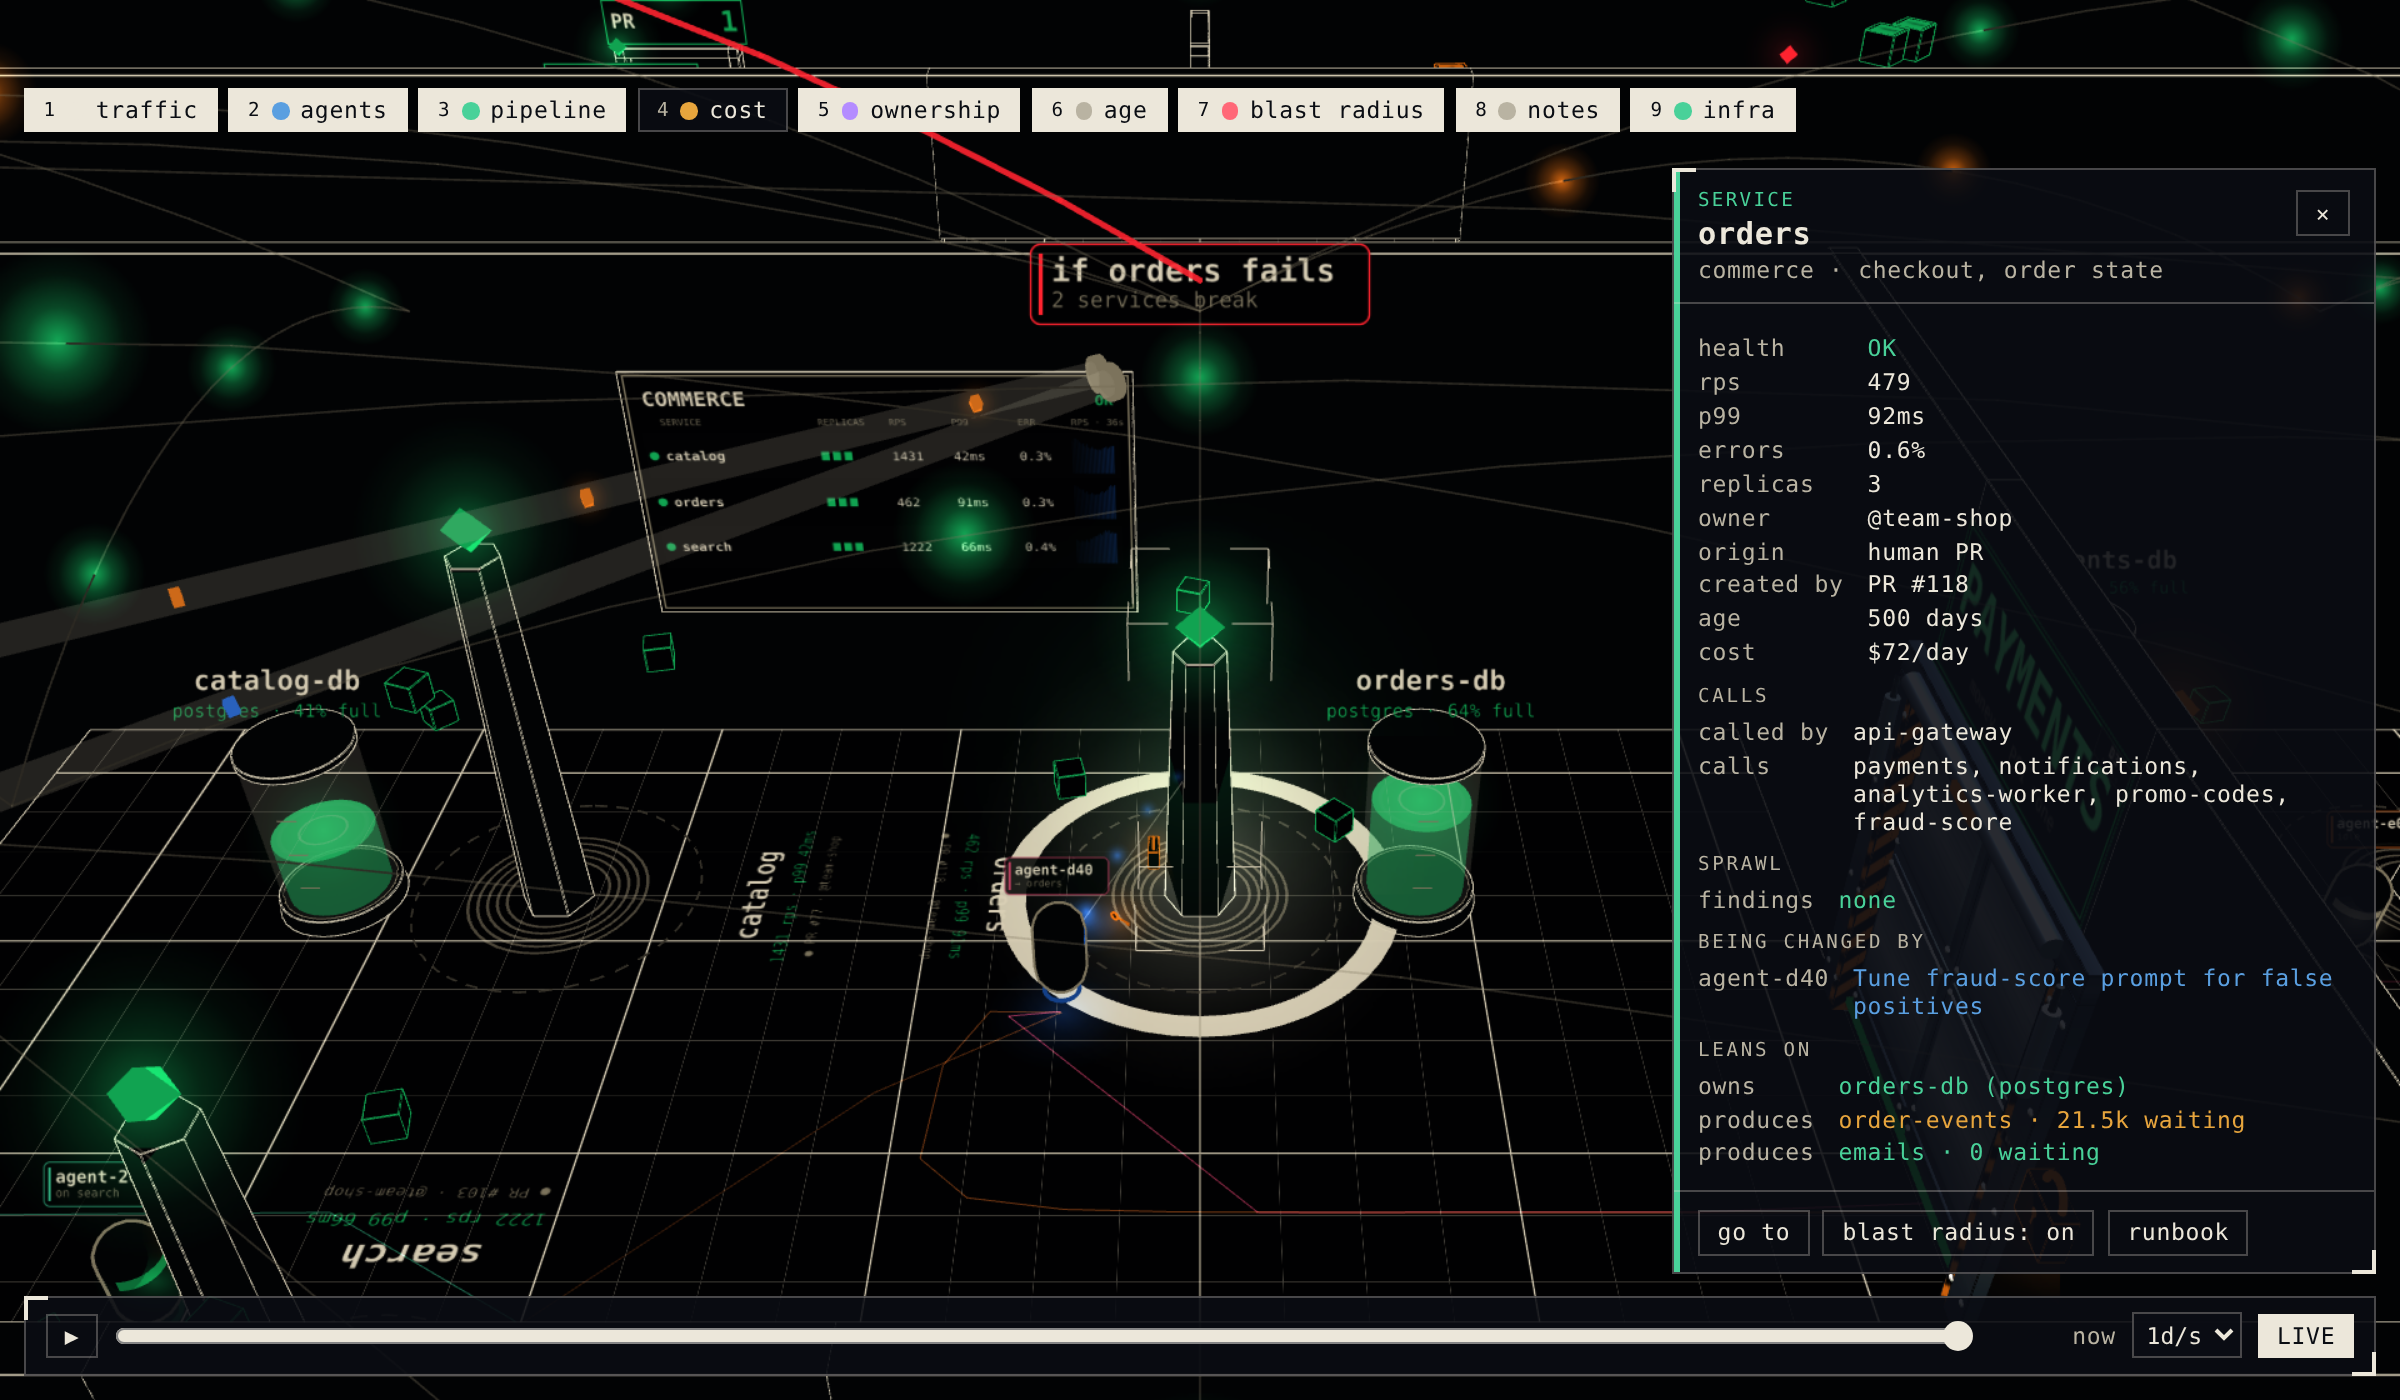
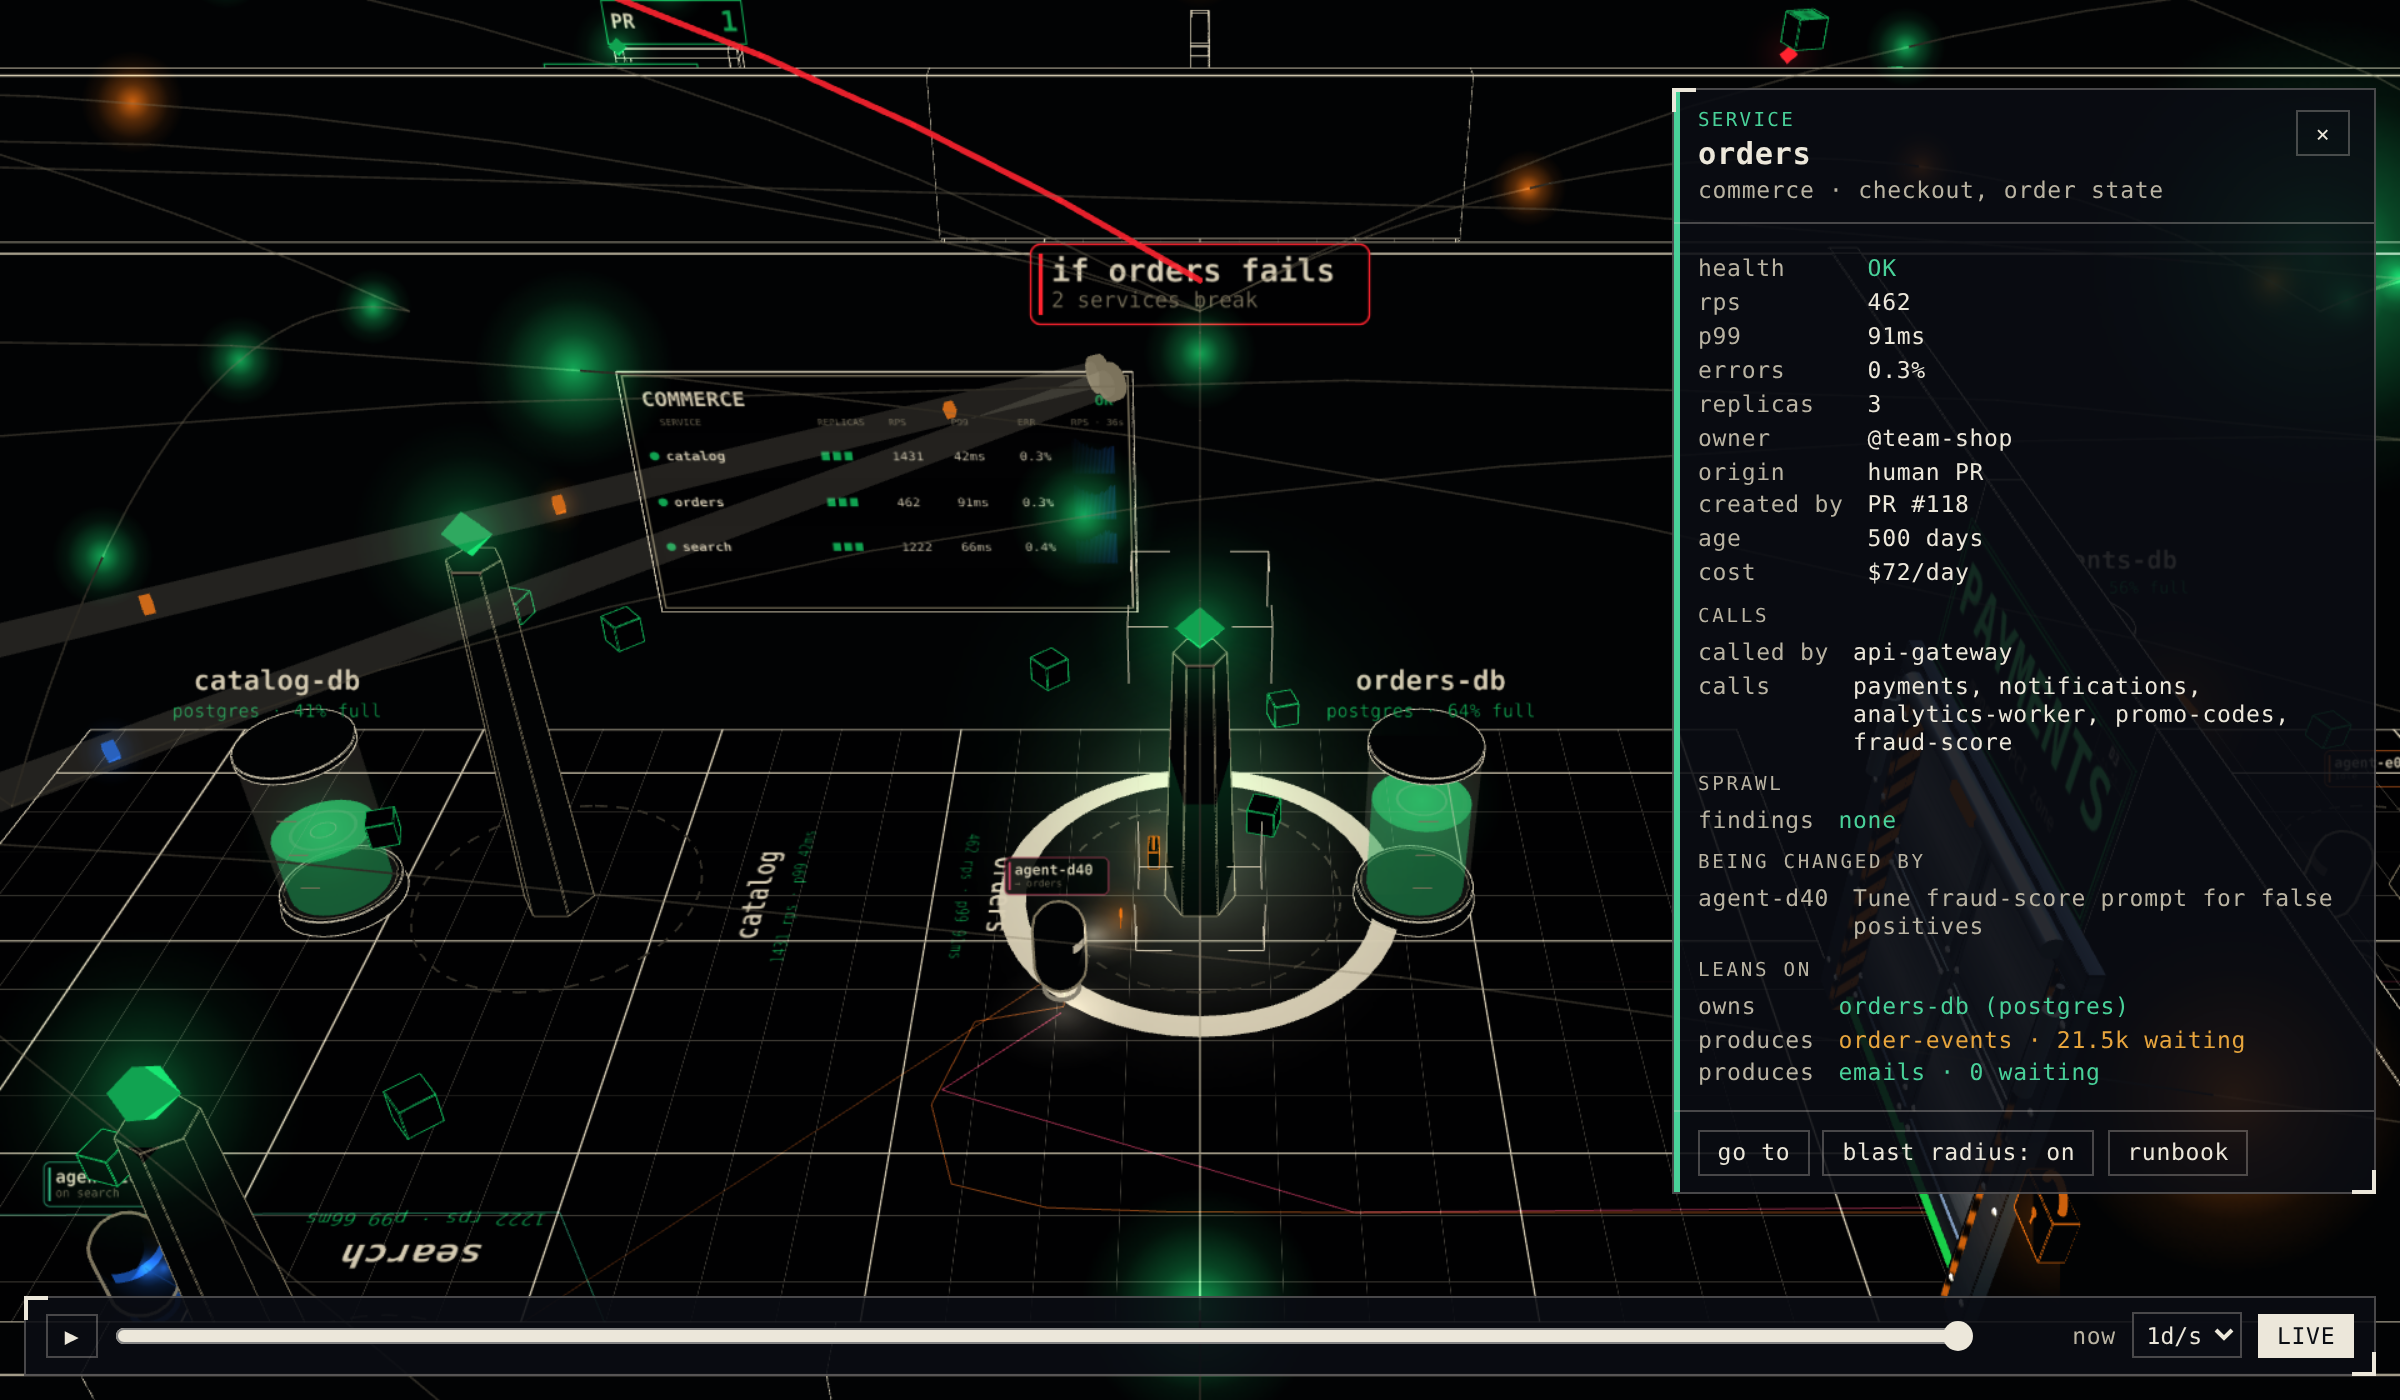
examples/company: a calmer first view, the layer chips folded into a menu, and a full-view shot
The row of layer chips across the top is now behind a "layers" button (keys
1-9 still work). The first view starts with traffic, agents, the work line,
infra and blast radius; cost, ownership, age and notes are a key away, and
?layers=all opens with everything on. The README shows both views.

Claude-Session: https://claude.ai/code/session_019EPYUWz9gcB9uawZGoN76F

diff --git a/examples/company/src/factoryLayers.ts b/examples/company/src/factoryLayers.ts
@@ -4,18 +4,31 @@
 // digit keys': nine layers, one per key.
 import { CRITICAL, INFO, OK, PAPER, PAPER_DIM, WARN, initialLayers, type LayerDef, type LayerState } from "site-world";
 
-export const LAYERS: readonly LayerDef[] = [
+// The first view is calm: traffic, agents, the work line, infra and blast
+// radius. Cost, ownership, age and notes are a key (or the layers menu) away,
+// and ?layers=all opens with every layer on, for the full picture.
+const BASE: readonly LayerDef[] = [
   { id: "traffic", label: "traffic", question: "Who calls whom, and what ships where?", color: PAPER, defaultOn: true },
   { id: "agents", label: "agents", question: "Who is changing what, and who is stuck?", color: INFO, defaultOn: true },
   { id: "pipeline", label: "pipeline", question: "How does work flow from ticket to deploy, and where does it pile up?", color: OK, defaultOn: true },
   // Off at first: a heat map over the whole floor is a question, not a backdrop.
   { id: "cost", label: "cost", question: "Where does the money and the token budget go?", color: WARN },
-  { id: "ownership", label: "ownership", question: "Who made each service, who owns it, and what is orphaned or duplicated?", color: "#b48cff", defaultOn: true },
-  { id: "age", label: "age", question: "How old is each service? One ring per 120 days.", color: PAPER_DIM, defaultOn: true },
+  { id: "ownership", label: "ownership", question: "Who made each service, who owns it, and what is orphaned or duplicated?", color: "#b48cff" },
+  { id: "age", label: "age", question: "How old is each service? One ring per 120 days.", color: PAPER_DIM },
   { id: "blast", label: "blast radius", question: "If the selected service fails, who breaks?", color: CRITICAL, defaultOn: true },
-  { id: "notes", label: "notes", question: "What have people and agents written down?", color: PAPER_DIM, defaultOn: true },
+  { id: "notes", label: "notes", question: "What have people and agents written down?", color: PAPER_DIM },
   { id: "infra", label: "infra", question: "What do services lean on — databases, queues, third parties — and who holds keys?", color: OK, defaultOn: true },
 ];
+
+function allOn(): boolean {
+  try {
+    return new URLSearchParams(globalThis.location?.search ?? "").get("layers") === "all";
+  } catch {
+    return false;
+  }
+}
+
+export const LAYERS: readonly LayerDef[] = allOn() ? BASE.map((d) => ({ ...d, defaultOn: true })) : BASE;
 
 export type LayerId = "traffic" | "agents" | "pipeline" | "cost" | "ownership" | "age" | "blast" | "notes" | "infra";
 

diff --git a/examples/company/src/App.tsx b/examples/company/src/App.tsx
@@ -197,6 +197,7 @@ export function App() {
   };
 
   const [paletteOpen, setPaletteOpen] = useState(false);
+  const [layersOpen, setLayersOpen] = useState(false);
 
   // The panel: the selection, read against the moment shown.
   const view = sel.selected ? inspectFor(sel.selected, source, feed) : null;
@@ -244,6 +245,7 @@ export function App() {
           <button key={m} aria-pressed={mode === m} onClick={() => switchMode(m)}>{m}</button>
         ))}
         <button onClick={() => setPaletteOpen(true)} title="/ or Ctrl+K">go to…</button>
+        <button aria-pressed={layersOpen} onClick={() => setLayersOpen((o) => !o)} title="keys 1–9">layers</button>
         <button
           aria-pressed={tour.active}
           onClick={() => {
@@ -281,7 +283,8 @@ export function App() {
           walkHint="click to lock the cursor · WASD · shift to crouch · E to use or inspect · / to go to · 1–9 layers · Esc to release"
           overlay={
             <>
-              <LayerBar layers={layers} style={{ top: 44 }} />
+              {/* Folded away until asked for; it stays mounted so keys 1–9 work either way. */}
+              <LayerBar layers={layers} style={{ top: 44, display: layersOpen ? undefined : "none" }} />
               <InspectPanel
                 open={view !== null}
                 title={view?.title ?? ""}
@@ -294,8 +297,8 @@ export function App() {
                 onClose={sel.clear}
                 // In a tour, Esc ends the tour and leaves its selection up.
                 closeOnEscape={!tour.active}
-                // Below the layer chips, which run most of the width.
-                style={{ top: 84 }}
+                // Clear of the page's button bar.
+                style={{ top: 44 }}
               />
               <GoToPalette open={paletteOpen} onOpenChange={setPaletteOpen} targets={targets} onGo={onGo} placeholder="go to a service, room, agent, database…" />
               <TourCaption tour={tour} />

diff --git a/README.md b/README.md
@@ -19,10 +19,17 @@ It started as the live "SITE" view of an engineering dashboard and was lifted ou
   the loading dock, cost per room, and padlocks on secrets.
 - **Blast radius.** Select a service and see what breaks if it fails.
 
+Everything on (`?layers=all`): cost heat on the floor, ownership and age rings, look-alike and orphan
+markers, and notes.
+
+![The same building with every layer on: cost heat on the floors, ownership and age rings, links between look-alike services, and sticky notes](media/overview-full.png)
+
 ## What you can do
 
 - **Inspect** anything: click it (or press **E** in walk mode) for a panel with its details.
-- **Layers**: turn traffic, agents, cost, ownership, age, blast radius and more on and off (keys **1–9**).
+- **Layers**: turn traffic, agents, cost, ownership, age, blast radius and more on and off, from the
+  **layers** button or keys **1–9**. The first view is kept calm; open the demo with `?layers=all` to see
+  everything at once.
 - **Go to and follow**: press **/** and type a name to fly there; follow an agent as it works.
 - **Timeline**: scrub back through six months and watch the building grow.
 - **Tours**: a guided walk through a story, such as "why is checkout slow?".
